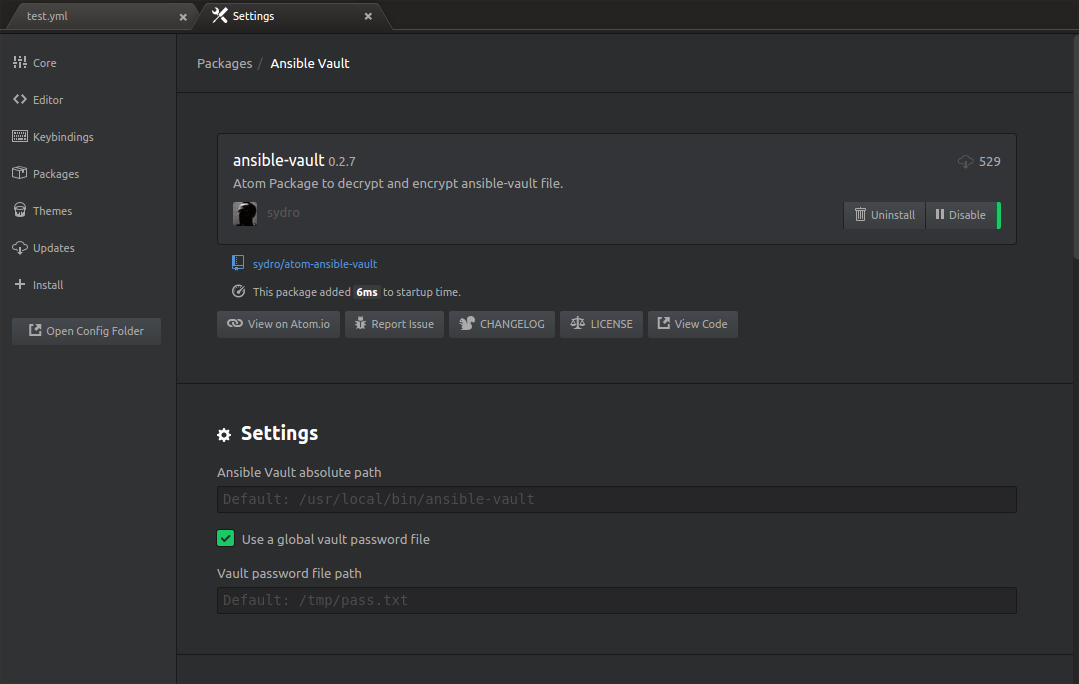
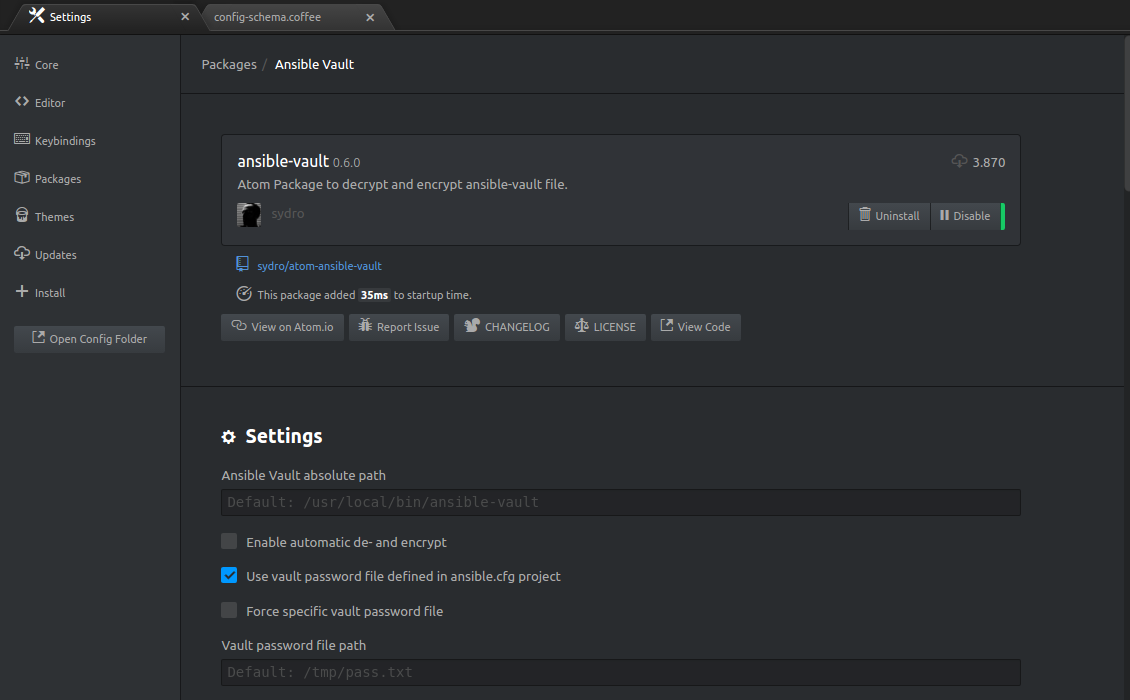
New feature: read vault_pass_file from ansible.cfg

diff --git a/lib/ansible-vault-utils.js b/lib/ansible-vault-utils.js
@@ -5,6 +5,8 @@ import AnsibleVaultView from './ansible-vault-view';
 import { CompositeDisposable } from 'atom';
 import { File } from 'atom';
 import fs from 'fs';
+import ini from 'ini';
+
 
 export default class AnsibleVaultUtils {
 
@@ -70,6 +72,7 @@ export default class AnsibleVaultUtils {
       execChild(cmd, (error, stdout, stderr) => {
           if (error) {
               exitCode = 1;
+              output = stderr;
           } else {
               exitCode = 0;
               output = vault_filepath + ": OK"
@@ -88,7 +91,23 @@ export default class AnsibleVaultUtils {
       let unlinkF = false;
 
       if (atom.config.get("ansible-vault.vault_password_file_flag")) {
-        password_file = atom.config.get("ansible-vault.vault_password_file_path")
+          if (atom.config.get("ansible-vault.vault_password_file_forcing")) {
+              password_file = atom.config.get("ansible-vault.vault_password_file_path");
+          } else {
+              project_path = atom.project.relativizePath(vault_filepath)[0]
+              const listFiles = require('fs-plus').listSync;
+              ansible_cfg_file = listFiles(project_path, ['cfg']).map(function(el) { if (el.includes('ansible.cfg')) return el ; } );
+              if (ansible_cfg_file.length <= 0) {
+                  password_file = atom.config.get("ansible-vault.vault_password_file_path");
+              } else {
+                  let ansible_cfg = ini.parse(fs.readFileSync(ansible_cfg_file[0],'utf-8'));
+                  if(ansible_cfg.defaults.vault_password_file) {
+                      password_file = ansible_cfg.defaults.vault_password_file;
+                  } else {
+                      password_file = atom.config.get("ansible-vault.vault_password_file_path");
+                  }
+              }
+          }
       }
 
       if (password_file == "") {
